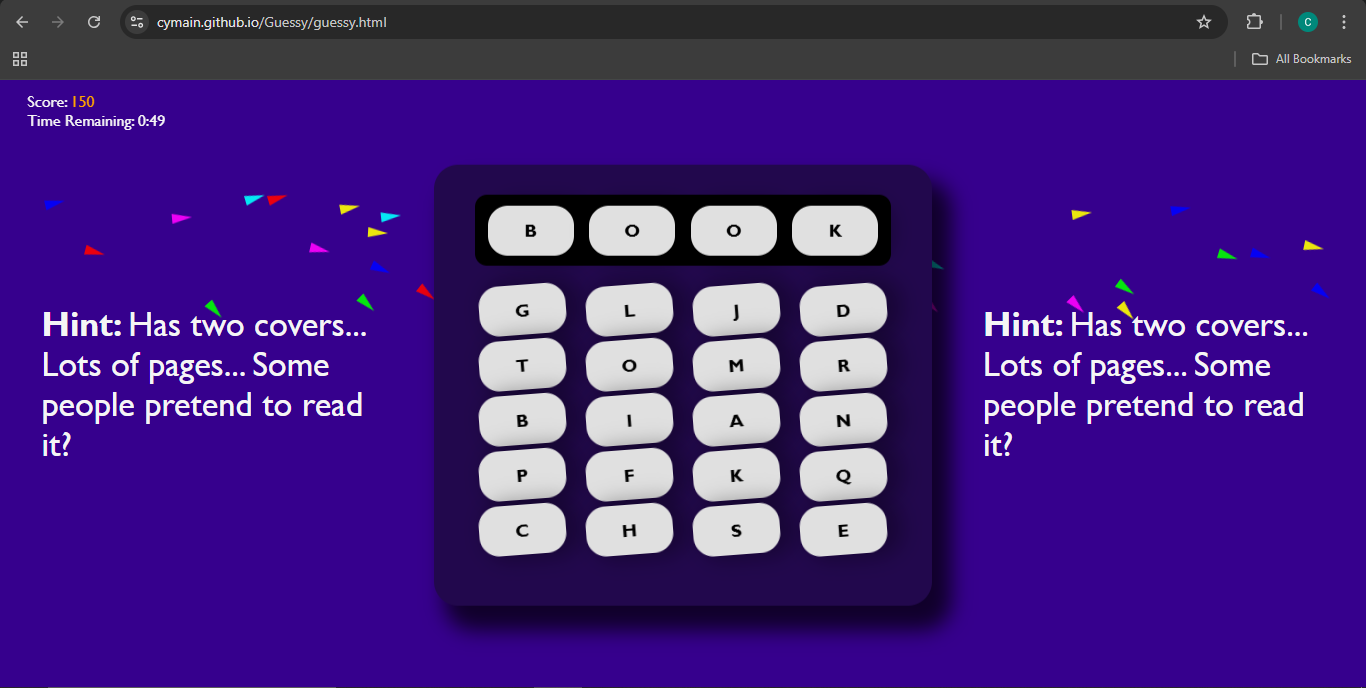
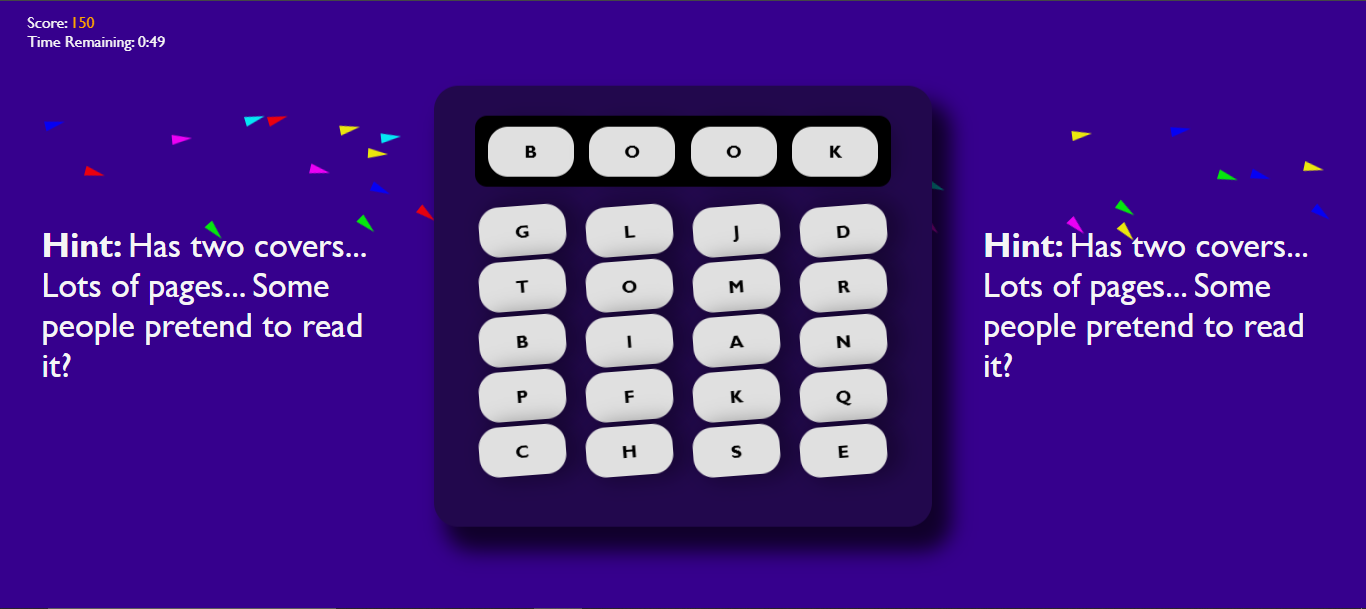
Done with Projects section and fixed header bar nav targets. On to the footer.

diff --git a/portfolio.html b/portfolio.html
@@ -16,14 +16,17 @@
         <!--Conatains Nav bar-->
         <nav>
             <!--Contains "About", "Contact Me", "Projects"-->
-            <a class="nav">About</a>
-            <a class="nav" href="#my-services">Services</a>
-            <a class="nav">Projects</a>
+            <a class="nav" href="#who-i-am-target">About</a>
+            <a class="nav" href="#my-services-target">Services</a>
+            <a class="nav" href="#projects-section-target">Projects</a>
         </nav>
     </header>
     <main>
         <!--Contains the main content of each site-->
         <section id="who-i-am">
+            <h6 id="who-i-am-target">
+
+            </h6>
             <div id="about-container">
                 <div id="brand-image">
                     <!--My Image or brand Image. Could even be my github pfp-->
@@ -42,6 +45,9 @@
             </div>
         </section>
         <section id="my-services">
+            <h6 id="my-services-target">
+
+            </h6>
             <div id="services-container">
                 <h2>
                     My Services
@@ -71,28 +77,56 @@
             </div>
         </section>
         <section id="projects-section">
+            <h6 id="projects-section-target">
+
+            </h6>
             <!--Contains all my main projects-->
-            <div id="projects-section-container">
-                <!--Default template for all projects
-                Div1 Contains two divs. Div1,1 contains a sample image of the project
-                Div1,2 contains a project title and then a description(maybe include a button to go to project site?)-->
-                <div>
-                    <img src="./assets/images/project-images/GuessyScreenshots/GuessySampleProject.png">
+            <div id="projects">
+                <div class="project">
+                    <!--Default template for all projects
+                    Div1 Contains two divs. Div1,1 contains a sample image of the project
+                    Div1,2 contains a project title and then a description(maybe include a button to go to project site?)-->
+                    <div class="display-image">
+                        <img src="./assets/images/project-images/GuessyScreenshots/GuessySampleProject.png">
+                    </div>
+                    <div class="project-desc">
+                        <h2>
+                            Guessy! The Online Guessing Game!
+                        </h2>
+                        <article>
+                            <p>
+                                Guessy is as expected, an online guessing game, where the player can be engaged
+                                in fun guessing random words based on the hints displayed. Even secret comments and easter eggs exist.
+                                So much to find out!
+                            </p>
+                        </article>
+                        <button onclick="window.location.href='cymain.github.io/Guessy/intro.html'">
+                            Go To Site
+                        </button>
+                    </div>    
                 </div>
-                <div>
-                    <h2>
-                        Guessy! The Online Guessing Game!
-                    </h2>
-                    <article>
-                        <p>
-                            Guessy is as expected, an online guessing game, where the player can be engaged
-                            in fun guessing random words based on the hints displayed. Even secret comments and easter eggs exist.
-                            So much to find out!
-                        </p>
-                    </article>
-                    <button>
-                        Go To Site
-                    </button>
+                <div class="project">
+                    <!--Default template for all projects
+                    Div1 Contains two divs. Div1,1 contains a sample image of the project
+                    Div1,2 contains a project title and then a description(maybe include a button to go to project site?)-->
+                    <div class="display-image">
+                        <img src="./assets/images/project-images/GuessyScreenshots/GuessySampleProject.png">
+                    </div>
+                    <div class="project-desc">
+                        <h2>
+                            Guessy! The Online Guessing Game!
+                        </h2>
+                        <article>
+                            <p>
+                                Guessy is as expected, an online guessing game, where the player can be engaged
+                                in fun guessing random words based on the hints displayed. Even secret comments and easter eggs exist.
+                                So much to find out!
+                            </p>
+                        </article>
+                        <button>
+                            Go To Site
+                        </button>
+                    </div>    
                 </div>
             </div>
         </section>

diff --git a/styles/projects.css b/styles/projects.css
@@ -1,7 +1,124 @@
 #projects-section{
-
+    /*
+    The entire projects section
+    */
+    background-color: var(--mainColor3);
+    height: 100%;
 }
 
-#projects-section-container{
+#projects{
+    /*
+    Holds the projects in the project section
+    */
+    cursor: pointer;
+    display: flex;
+    flex-direction: column;
+    align-items: center;
+    justify-content: center;
+
+    .project{  
+        /*
+        Holds the style for every project
+        */
+        overflow: hidden;
+        position: relative;
+        max-height: 80vh;
+        max-width: 900px;
+        display:flex;
+        flex-direction: column;
+        justify-content: center;
+        align-items:center;
+        box-shadow: 2px 2px 8px rgba(0, 0, 0, 0.4);
+        transition: background-color 0.15s, transform 1s, box-shadow 0.15s;
+        border-radius: 20px;
+        padding: 10% 5%;
+        margin-bottom: 4%;
+
+        &:hover{
+            background-color: var(--mainColor2);
+            transform: translateY( -2%);
+            box-shadow: 4px 4px 8px rgba(0, 0, 0, 0.4);
+        }
+
+        .display-image{
+            margin-bottom: 4%;
+            width: 100%;
+            height: 100%;
+            transition: all 0.15s;
+            img{
+                width: 100%;
+                height: 100%;
+                object-fit: contain;
+            }
+            &:hover{
+                transform: translateY(-10%);
+                width: 105%;
+            }
+        }
+
+        .project-desc{
+            display: flex;
+            position: absolute;
+            flex-direction: column;
+            align-items: center;
+            justify-content: center;
+            background-color: var(--mainColor3);
+            height: 40%;
+            bottom: 0;
+            left: 0;
+            right: 0;
+            transition: all 0.15s;
+
+            &:hover{
+                height: 50%;
+                background-color: var(--mainColor2);
+
+                article{
+                    line-height: 120%;
+                    display:flex;
+                }
     
+                button{
+                    width:40%;
+                    display:flex;
+                }
+            }
+            
+            *{
+                margin-top: 2%;
+                transition: all 0.15s;
+            }
+            
+            h2{
+                font-size: clamp(14px, 4vw, 40px);
+                cursor:default;
+                text-shadow: 2px 2px 4px rgba(0, 0, 0, 0.4);
+            }
+
+            article{
+                font-size: clamp(10px, 1.6vw, 40px);
+                cursor:default;
+                line-height: 120%;
+                max-width: 80%;
+                display: none;
+                text-shadow: 2px 2px 4px rgba(0, 0, 0, 0.6);
+            }
+
+            button{
+                cursor: pointer;
+                padding: 1% 10%;
+                display: none;
+                align-items: center;
+                justify-content: center;
+                background-color: var(--buttonColor1);
+                box-shadow: 2px 2px 2px rgba(0, 0, 0, 0.4);
+                border: none;
+                border-radius: 20px;
+
+                &:hover{
+                    background-color: var(--buttonColor2);
+                }
+            }
+        }
+    }
 }

diff --git a/styles/general.css b/styles/general.css
@@ -17,4 +17,11 @@ section{
     display: flex;
     flex-direction: column;
     justify-content: center;
+    position: relative;
+}
+
+h6{
+    position: absolute;
+    opacity: 0;
+    top: -8vh;
 }

diff --git a/styles/colors.css b/styles/colors.css
@@ -5,4 +5,6 @@
     --mainColor4:#3b3b3b;
     --textColor1:whitesmoke;
     --textColor2:#363636;
+    --buttonColor1:#0f0f0f;
+    --buttonColor2:#1f1f1f;
 }

diff --git a/styles/header.css b/styles/header.css
@@ -8,6 +8,7 @@ header{
     justify-content: right;
     align-items: center;
     height: 8vh;
+    z-index: 100;
 }
 
 nav{
